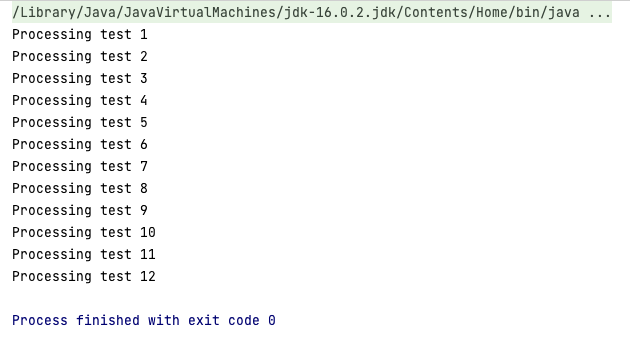
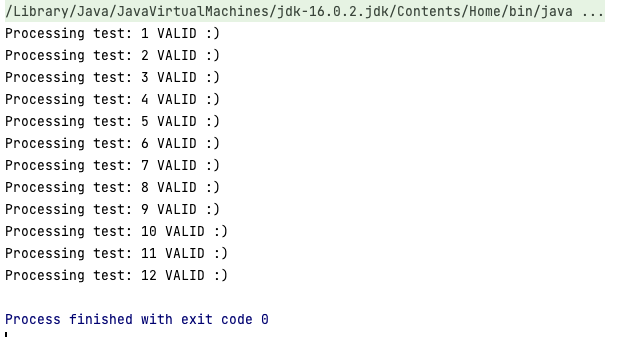
updated read me

diff --git a/readme/readme02.html b/readme/readme02.html
@@ -129,9 +129,10 @@ cases are seperated by `---` so that we could put all of our test cases in the s
 `Test.java`
 ~~~~
 import org.antlr.v4.runtime.*;
+import org.antlr.v4.runtime.tree.*;
 import java.io.BufferedReader;
 import java.io.FileReader;
-import org.antlr.v4.runtime.tree.ParseTree;
+import java.io.IOException;
 
 /*
  * CS59 P02: Functional Parser
@@ -145,8 +146,12 @@ public class Test {
 
         //-------------------------------
         // IMPORTANT: Change below line to change the file being read!
-        BufferedReader reader = new BufferedReader(new FileReader("inputs/valid_tests.txt"));
+        BufferedReader reader = new BufferedReader(new FileReader("inputs/invalid_tests.txt"));
         //-------------------------------
+
+        // create error listeners
+        SilentErrorListener errorListener = new SilentErrorListener();
+        LexerErrorListener lexerErrorListener = new LexerErrorListener();
 
         StringBuilder fileContent = new StringBuilder();
         String line = reader.readLine();
@@ -161,22 +166,100 @@ public class Test {
         int testNumber = 1;
 
         for (String section : sections) {
-            System.out.println("Processing test " + testNumber);
+            System.out.print("Processing test: " + testNumber);
             CharStream input = CharStreams.fromString(section);
             AutogradeLexer lexer = new AutogradeLexer(input);
             CommonTokenStream tokens = new CommonTokenStream(lexer);
             AutogradeParser parser = new AutogradeParser(tokens);
 
-            ParseTree tree = parser.start(); // Parse the input starting from the 'start' rule
+            // add custom error listeners
+            parser.removeErrorListeners();
+            parser.addErrorListener(errorListener);
+            lexer.addErrorListener(lexerErrorListener);
 
-            // Check for unprocessed tokens --> error
-            if (tokens.LA(1) != Token.EOF) {
-                System.err.println("Syntax Error: Unprocessed tokens found in section " + testNumber + ". Input not fully parsed.");
+            parser.start();
+
+            // check for errors
+            if (errorListener.error() || lexerErrorListener.error() || tokens.LA(1) != Token.EOF) {
+                System.out.println(" INVALID :(");
+            } else {
+                System.out.println(" VALID :)");
             }
+
+            // reset error listeners
+            errorListener.reset();
+            lexerErrorListener.reset();
 
             testNumber++;
             Thread.sleep(100); // Sleep to make sure errors get printed along with test number (if this statement is not there then they will not)
         }
+    }
+}
+~~~~
+
+We also created custom error listeners to listen for errors, which are as follows. The second one (`LexerErrorListener`) is necessary
+for token recognition errors.
+
+
+`SilentErrorListener`
+~~~~
+import org.antlr.v4.runtime.BaseErrorListener;
+import org.antlr.v4.runtime.RecognitionException;
+import org.antlr.v4.runtime.Recognizer;
+
+/*
+ * CS59 P02: Functional Parser
+ * Author: Warren Shepard and Daisy li
+ * Date: 30 July 2024
+ * Credit: Warren and Daisy code from assignment 01 and 02 and class slides
+ */
+
+public class SilentErrorListener extends BaseErrorListener {
+    private boolean error = false;
+    public static final SilentErrorListener INSTANCE = new SilentErrorListener();
+
+    @Override
+    public void syntaxError(Recognizer<?, ?> recognizer, Object offendingSymbol,
+                            int line, int charPositionInLine, String msg, RecognitionException e) {
+        error = true;
+    }
+
+    public boolean error() {
+        return error;
+    }
+
+    public void reset() {
+        error = false;
+    }
+}
+~~~~
+
+`LexerErrorListener`
+~~~~
+import org.antlr.v4.runtime.*;
+
+/*
+ * CS59 P02: Functional Parser
+ * Author: Warren Shepard and Daisy li
+ * Date: 30 July 2024
+ * Credit: Warren and Daisy code from assignment 01 and 02 and class slides
+ */
+
+public class LexerErrorListener extends BaseErrorListener {
+    private boolean error = false;
+
+    @Override
+    public void syntaxError(Recognizer<?, ?> recognizer, Object offendingSymbol,
+                            int line, int charPositionInLine, String msg, RecognitionException e) {
+        error = true;
+    }
+
+    public boolean error() {
+        return error;
+    }
+
+    public void reset() {
+        error = false;
     }
 }
 ~~~~
@@ -457,7 +540,7 @@ z = x+y
 ---
 
 grader.configure {
-due_date = none,
+due_date = ,
 late_penalty = .1,
 early_time = 24h,
 early_reward = .01,
@@ -489,8 +572,7 @@ students = {Warren, Daisy}
 }
 ~~~~
 
-<img src="https://raw.githubusercontent.com/warrenshepard/cs59-final/main/parser_ss/invalid_tests_a.png" alt="blah" width="600">
-<img src="https://raw.githubusercontent.com/warrenshepard/cs59-final/main/parser_ss/invalid_tests_b.png" alt="blah" width="600">
+<img src="https://raw.githubusercontent.com/warrenshepard/cs59-final/main/parser_ss/invalid_tests.png" alt="blah" width="600">
 
 
 
